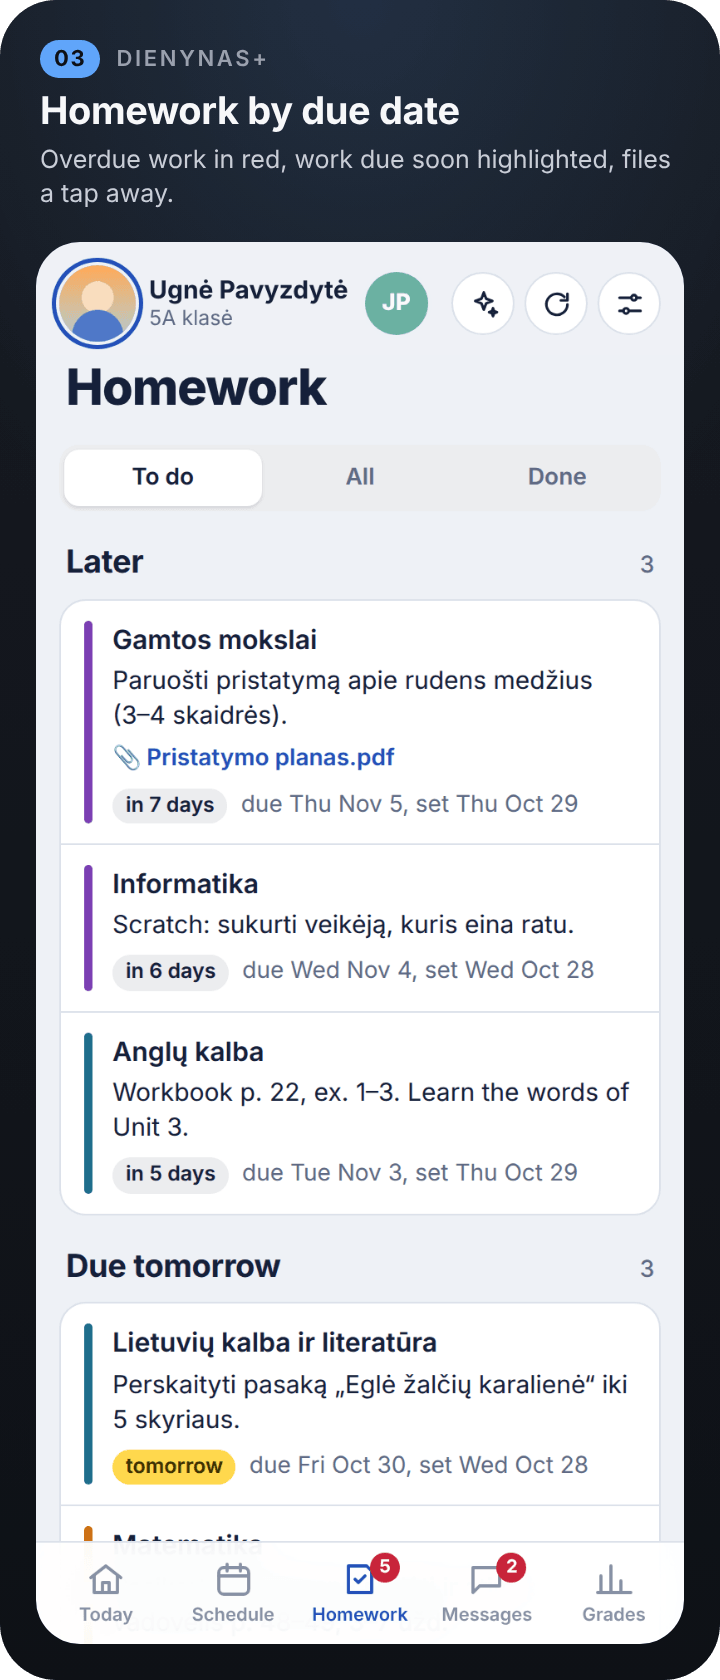
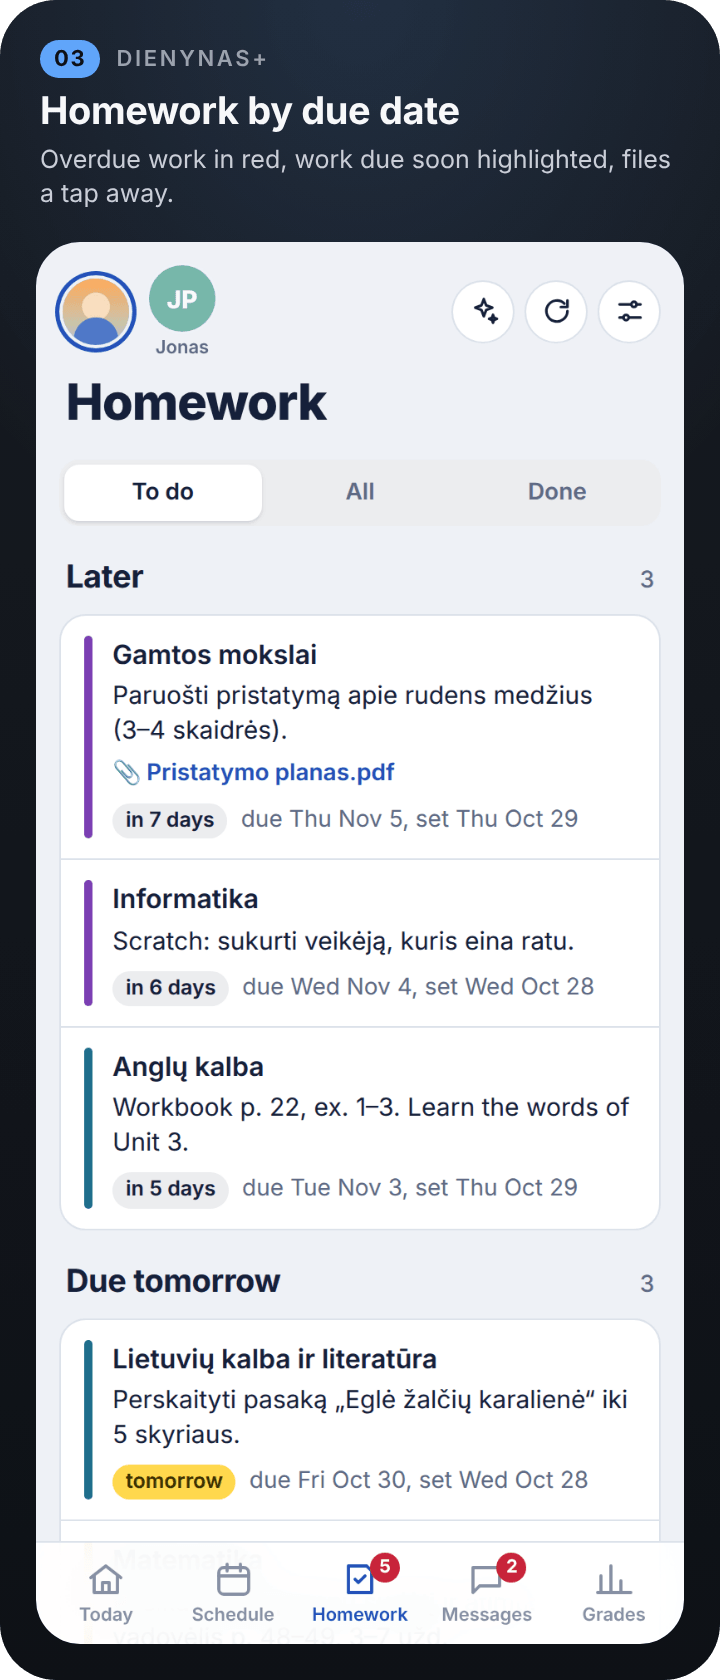
Release 1.13.0: room for every child
- Several children: the header shows only round photos in a fixed order;
  without a photo, initials and a short first name; up to four fit beside
  the buttons, also at 375 px
- First launch with several children: a card on Today suggests adding a photo
  for each child (tap a child to pick one; Not now hides it for good)
- One child: unchanged (photo with full name and class)
- Fix: long names pushed the other children's photos off the header
- Screenshots: 08-children shows the add-photos card

diff --git a/Dienynas.js b/Dienynas.js
@@ -30,7 +30,7 @@ const SESSION_TTL_MIN = 25;
 
 
 // This build's version. When releasing, bump it and add a matching entry to releases.json.
-const VERSION = '1.12.1';
+const VERSION = '1.13.0';
 const APP_ID = 'dienynasplus';   // unique per app, never changes
 const REPO_RAW = 'https://raw.githubusercontent.com/gadominas/Tamo-/master/';
 const SCRIPT_FILE = 'Dienynas.js';   // the script's file name in the repository
@@ -154,6 +154,7 @@ const write = (n, v) => {
 const settings = {
   lang: "en", checkUpdates: true,   // offer new versions from GitHub (asks again 2 days after "Later")
   shareUsage: false, usageAsked: false,  // anonymous usage counts: off until the person agrees
+  photosAsked: false,   // several children: the "add a photo for each child" card was answered (Not now)
   theme: "auto", density: "comfortable", font: "sans", textSize: 1,
   gradeScales: {},   // top grade per child: { roleKey: 10 }
   cfg: {},
@@ -1332,6 +1333,22 @@ header.top{position:sticky;top:0;z-index:6;display:flex;align-items:center;justi
 .kn b{font-family:var(--display);font-size:calc(15px * var(--ts));font-weight:700;white-space:nowrap;overflow:hidden;text-overflow:ellipsis;max-width:42vw}
 .kn small{font-size:calc(12.5px * var(--ts));color:var(--muted);white-space:nowrap;overflow:hidden;text-overflow:ellipsis;max-width:42vw;max-height:3em;transition:max-height .2s ease,opacity .2s ease}
 .kid:not(.on) .kn{display:none}
+/* several children: photos only, three or four fit beside the buttons */
+.kids.multi{gap:8px}
+.kids.multi .kid{flex-direction:column;gap:3px;width:44px;align-items:center}
+.kids.multi .av{width:40px;height:40px;font-size:15px}
+.kids.multi .kid:not(.on) .av{width:40px;height:40px;font-size:15px;opacity:.55}
+.kl{font-size:calc(11px * var(--ts));font-weight:600;color:var(--muted);max-width:50px;white-space:nowrap;overflow:hidden;text-overflow:ellipsis;line-height:1.1;transition:opacity .2s ease}
+.kid.on .kl{color:var(--ink)}
+.compact .kl{display:none}
+.compact .kids.multi .av,.compact .kids.multi .kid:not(.on) .av{width:30px;height:30px;font-size:12px}
+.photoask{padding:14px}
+.photoask .title{font-weight:700}
+.pa-row{display:flex;gap:14px;margin:12px 0 10px;overflow-x:auto;padding:4px 2px}
+.pa-kid{display:flex;flex-direction:column;align-items:center;gap:4px;min-width:64px}
+.pa-kid .av{width:54px;height:54px;font-size:19px}
+.pa-kid b{font-size:calc(13px * var(--ts))}
+.pa-kid small{font-size:calc(12px * var(--ts));color:var(--blue);font-weight:600}
 .compact .av{width:30px;height:30px;font-size:12px}
 .compact .kid:not(.on) .av{width:26px;height:26px;font-size:11px}
 .compact .kn small{max-height:0;opacity:0}
@@ -1695,6 +1712,7 @@ function pageMain() {
       gathering: "Pulling everything from TAMO…", gatherFailed: (e) => `Couldn't pull the data: ${e}`,
       stages: { schedule: "Lessons", homework: "Homework", grades: "Grades and attendance", calendar: "School calendar", messages: "Messages" },
       scaleLbl: (m) => `Scale 1–${m}`,
+      photos: { title: "Add a photo for each child", text: "With several children, photos keep the top of the screen tidy and show whose diary is open. They stay on this phone.", add: "Add photo", done: "✓ Added", later: "Not now" },
       news: { title: "New since last check", popup: (n) => `${n} new in TAMO`, clear: "Mark all as seen", ok: "OK", hw: "Homework", grades: "Grade", msgs: "Message", notes: "Teacher note", group: "class group", tapHint: "Tap an item to open it." },
       upd: {
         tag: (v) => `New version ${v}`, title: "An update is ready", more: (n) => ` (and ${n} more update${n > 1 ? "s" : ""})`,
@@ -1741,6 +1759,7 @@ function pageMain() {
       gathering: "Renkami visi TAMO duomenys…", gatherFailed: (e) => `Nepavyko surinkti duomenų: ${e}`,
       stages: { schedule: "Pamokos", homework: "Namų darbai", grades: "Pažymiai ir lankomumas", calendar: "Mokyklos kalendorius", messages: "Žinutės" },
       scaleLbl: (m) => `Skalė 1–${m}`,
+      photos: { title: "Pridėkite kiekvieno vaiko nuotrauką", text: "Kai vaikų keli, nuotraukos viršuje užima mažai vietos ir parodo, kieno dienynas atidarytas. Jos lieka tik šiame telefone.", add: "Pridėti", done: "✓ Pridėta", later: "Ne dabar" },
       news: { title: "Nauja nuo paskutinio patikrinimo", popup: (n) => `TAMO naujienos: ${n}`, clear: "Pažymėti kaip peržiūrėtas", ok: "Gerai", hw: "Namų darbai", grades: "Pažymys", msgs: "Žinutė", notes: "Mokytojo įrašas", group: "klasės grupė", tapHint: "Paspauskite, kad atidarytumėte." },
       upd: {
         tag: (v) => `Nauja versija ${v}`, title: "Atnaujinimas paruoštas", more: (n) => ` (ir dar atnaujinimų: ${n})`,
@@ -1922,6 +1941,7 @@ function pageMain() {
     const parts = [];
     const ev = eventsOn(D.today);
     if (ev.length) parts.push(`<div class="banner info">${ev.map((e) => h(e.title)).join("<br>")}</div>`);
+    parts.push(photoCard());
     parts.push(`<section>${nowCard}</section>`);
     if ((D.news || []).length) parts.push(section(T.news.title, newsPanel(D.news), `<button id="newsclear" style="color:var(--blue);font-weight:600">${h(T.news.clear)}</button>`));
     if (lessons.length) parts.push(section(T.lessonsToday, panel(lessons.map((l) => lessonRow(l, D.today, { compact: true })), ""), h(T.lessonsN(lessons.length))));
@@ -2545,6 +2565,25 @@ function pageMain() {
     if (S.tab === 5) setTimeout(() => window.scrollTo(0, document.body.scrollHeight), 30);
   }
 
+  // ── children: names and the first-launch "add a photo for each child" card ──
+  const initials = (n) => String(n || "?").trim().split(/\s+/).slice(0, 2).map((w) => w[0]).join("").toUpperCase();
+  const firstName = (n) => String(n || "").trim().split(/[\s-]+/)[0] || "?";
+  function photoCard() {
+    const kids = D.children || [];
+    if (kids.length < 2 || D.photosAsked || kids.every((k) => k.avatar)) return "";
+    const P = T.photos;
+    return `<section><div class="panel photoask">
+      <div class="title">${h(P.title)}</div>
+      <div class="meta">${h(P.text)}</div>
+      <div class="pa-row">${kids
+        .map((k) => `<button class="pa-kid" data-photo="${h(k.key)}" aria-label="${h(k.title)}">
+          <span class="av" style="${k.avatar ? `background-image:url('${k.avatar}')` : `background:${color(k.title)}`}">${k.avatar ? "" : h(initials(k.title))}</span>
+          <b>${h(firstName(k.title))}</b><small>${h(k.avatar ? P.done : P.add)}</small></button>`)
+        .join("")}</div>
+      <button class="lnk" id="photoslater">${h(P.later)}</button>
+    </div></section>`;
+  }
+
   // ── news: everything a check announced stays here until marked as seen ──
   const NEWS_ICON = { hw: "📝", grades: "⭐", msgs: "✉", notes: "🗒" };
   function newsRow(i, idx) {
@@ -2660,13 +2699,17 @@ function pageMain() {
   function render() {
     const unread = (D.messages || []).filter((m) => m.unread && m.date >= addDays(D.today, -6)).length;
     const hwBadge = (D.homework || []).filter((i) => !i.done && i.due && i.due >= addDays(D.today, -7) && i.due <= addDays(D.today, 1)).length;
-    const kids = (D.children && D.children.length ? D.children : [{ key: D.child.key, title: D.child.title, subtitle: D.child.subtitle, active: true }]).slice().sort((a, b) => (b.active ? 1 : 0) - (a.active ? 1 : 0));
-    const initials = (n) => String(n || "?").trim().split(/\s+/).slice(0, 2).map((w) => w[0]).join("").toUpperCase();
-    const kidBtn = (k) => `<button class="kid ${k.active ? "on" : ""}" data-kid="${h(k.key)}" aria-label="${h(k.title)}">
-        <span class="av" style="${k.avatar ? `background-image:url('${k.avatar}')` : `background:${color(k.title)}`}">${k.avatar ? "" : h(initials(k.title))}</span>
-        <span class="kn"><b>${h(k.active && D.child.title ? D.child.title : k.title)}</b><small>${h(k.active ? D.child.subtitle || k.subtitle : k.subtitle)}</small></span></button>`;
+    const kids = D.children && D.children.length ? D.children : [{ key: D.child.key, title: D.child.title, subtitle: D.child.subtitle, active: true }];
+    const multi = kids.length > 1;
+    const kidBtn = (k) => {
+      const avatar = `<span class="av" style="${k.avatar ? `background-image:url('${k.avatar}')` : `background:${color(k.title)}`}">${k.avatar ? "" : h(initials(k.title))}</span>`;
+      // several children: just the photos (same order every time); without a photo, initials and a short first name
+      if (multi) return `<button class="kid ${k.active ? "on" : ""}" data-kid="${h(k.key)}" aria-label="${h(k.title)}">${avatar}${k.avatar ? "" : `<span class="kl">${h(firstName(k.title))}</span>`}</button>`;
+      return `<button class="kid on" data-kid="${h(k.key)}" aria-label="${h(k.title)}">${avatar}
+        <span class="kn"><b>${h(D.child.title || k.title)}</b><small>${h(D.child.subtitle || k.subtitle)}</small></span></button>`;
+    };
     const head = `<header class="top">
-      <div class="kids">${kids.map(kidBtn).join("")}</div>
+      <div class="kids ${multi ? "multi" : ""}">${kids.map(kidBtn).join("")}</div>
       <div class="tools">
         ${D.hasAiKey ? `<button class="icon-btn ${S.tab === 5 ? "on" : ""}" data-tab="5" aria-label="ask"><svg viewBox="0 0 24 24"><path d="M12 3l1.8 4.7L18.5 9.5l-4.7 1.8L12 16l-1.8-4.7L5.5 9.5l4.7-1.8z"/><path d="M19 15l.8 2.2L22 18l-2.2.8L19 21l-.8-2.2L16 18l2.2-.8z"/></svg></button>` : ""}
         <button class="icon-btn" id="refresh" aria-label="refresh"><svg viewBox="0 0 24 24"><path d="M20 12a8 8 0 1 1-2.3-5.6"/><path d="M20 4v5h-5"/></svg></button>
@@ -2747,6 +2790,12 @@ function pageMain() {
         if (!S.info && !S.preparing && !S.prepError) prepare(false);
       }
       return;
+    }
+    if (el.dataset.photo) return call("avatar", { key: el.dataset.photo }).catch(() => {});
+    if (el.id === "photoslater") {
+      D.photosAsked = true;
+      render();
+      return call("photos-later").catch(() => {});
     }
     if (el.dataset.kid) {
       const k = (D.children || []).find((x) => x.key === el.dataset.kid);
@@ -3812,6 +3861,7 @@ class App {
       ...extra,
       lang: LANG(), version: VERSION, look: lookState(), logo: LOGO_PARTS,
       usageAsk: usageAvailable() && !settings.usageAsked && !settings.shareUsage,
+      photosAsked: !!settings.photosAsked,
     };
   }
 
@@ -3996,6 +4046,10 @@ class App {
         case "avatar":
           await this.reply(q.id, true, {});
           return this.avatarMenu(String(params.key || ""));
+        case "photos-later":   // "Not now" on the add-photos card: don't suggest it again
+          settings.photosAsked = true;
+          saveSettings();
+          return this.reply(q.id, true, {});
         case "newsclear":
           clearNewsList((this.data && this.data.child.key) || currentRoleKey());
           return this.reply(q.id, true, {});

diff --git a/docs/site/scenario.js b/docs/site/scenario.js
@@ -284,7 +284,7 @@ module.exports = {
   settle: 3900,   // the launch screen (2.9 s), then the page with fresh TAMO data
   fixtures: (shot) => ({
     files: Object.assign({
-      [DOCS + '/DienynasPlus/settings.json']: { lang: shot.lt ? 'lt' : 'en', checkUpdates: true, theme: 'auto', density: 'comfortable', font: 'sans', textSize: 1, gradeScales: {}, cfg: {}, usageAsked: true },
+      [DOCS + '/DienynasPlus/settings.json']: { lang: shot.lt ? 'lt' : 'en', checkUpdates: true, theme: 'auto', density: 'comfortable', font: 'sans', textSize: 1, gradeScales: {}, cfg: {}, usageAsked: true, photosAsked: !shot.photoCard },
       [LOCAL + '/dienynas-plus-ai-settings.json']: { aiProvider: 'anthropic', ai: true, models: { anthropic: { at: NOW - 3 * 864e5, list: [
         { id: 'claude-opus-5-5', name: 'Claude Opus 5.5' }, { id: 'claude-sonnet-5-5', name: 'Claude Sonnet 5.5' }, { id: 'claude-haiku-5-5', name: 'Claude Haiku 5.5' }] } } },
       [LOCAL + '/dienynas-plus-usage.json']: usageSeed(),
@@ -346,12 +346,8 @@ module.exports = {
       run: async (h) => { await h.tap('[data-tab="4"]'); } },
     { id: '07-lithuanian', label: 'In Lithuanian too', caption: 'Switch between Lithuanian and English in Settings › General.', lt: true,
       run: async (h) => { await h.scrollTo('main section:nth-of-type(3)', 18); } },
-    { id: '08-children', label: 'Switch children in one tap', caption: 'Each child’s photo stays at the top and shrinks as you scroll; tap one to switch.',
-      run: async (h) => {
-        await h.tap('[data-tab="1"]');
-        await h.tap('.lesson.current');
-        await h.scrollTo(330);   // scrolled: the header and the children row shrink
-      } },
+    { id: '08-children', label: 'Switch children in one tap', caption: 'Each child’s photo sits at the top; the first time, add a photo for each.',
+      photoCard: true },   // Today with the add-photos card (Jonas has no photo yet)
     { id: '09-launch', label: 'Launch screen', caption: 'The calendar draws itself for a moment; a tap skips it.', settle: 800 },
     { id: '10-settings', label: 'Settings', caption: 'Six palettes or Auto, three layouts, text size and headline font.',
       run: async (h) => { await h.tap('#settings', { after: 900 }); } },

diff --git a/README.md b/README.md
@@ -37,7 +37,7 @@ A faster, cleaner way to follow your child's school day in the TAMO dienynas, th
 - **Schedule.** The week with lessons per day; tap a lesson for its teacher, topic, homework, attachments and subject average.
 - **Messages.** A bar chart of the last 7 days with the unread part in yellow, messages grouped by day, and each message in a sheet.
 - **Grades.** Subject averages for the last 30 days on your school's grade scale (1–10, 1–7 or any other), recent grades, formative assessments and attendance.
-- **Children at the top.** Each child's photo or initials sits in the header; tap one to switch. The header shrinks as you scroll.
+- **Children at the top.** With several children, the header shows just their round photos (initials and a short first name until a photo is added), so up to four fit; tap one to switch. The header shrinks as you scroll.
 - **🔔 Scheduled checks.** Run it from Shortcuts to be told about new homework, grades, messages and teacher notes; everything announced stays on Today until you mark it as seen.
 - **Lithuanian and English.** The interface, the widget and the alerts follow the language set in Settings.
 - **Home Screen widget.** The lesson now or next, homework due tomorrow, today's messages and the rest of the day, without grades or message text.
@@ -53,7 +53,7 @@ A faster, cleaner way to follow your child's school day in the TAMO dienynas, th
 </p>
 <p align="center">
   <img src="docs/screenshots/07-lithuanian.png" width="31%" alt="Today screen in Lithuanian: what to prepare for tomorrow, with a maths test flagged and the homework due">
-  <img src="docs/screenshots/08-children.png" width="31%" alt="Schedule scrolled down: the header has shrunk to the selected child's photo and name, with a second child's initials beside it">
+  <img src="docs/screenshots/08-children.png" width="31%" alt="Today with two children at the top as round photos, and a card suggesting a photo for the child who has none yet">
   <img src="docs/screenshots/09-launch.png" width="31%" alt="Launch screen: the Dienynas+ calendar logo drawing itself above the name">
 </p>
 <p align="center">
@@ -185,7 +185,7 @@ Checks cover the child currently selected in the app. Network hiccups in the bac
 
 ### Several children, offline, and the rest
 
-- **Several children on one account:** every child sits at the top of the screen as a round photo, or their initials. Tap another child to switch straight away, on the same sign-in: their last data appears at once while fresh data loads. Tap the selected child to **choose a photo** from your album (it's cropped to a circle and kept only on the phone), change it or remove it. The header stays on top and shrinks as you scroll. Grade scale, ✨ Ask conversations and new-item alerts are kept per child. **Settings › Account › Switch child** works too.
+- **Several children on one account:** every child sits at the top of the screen as a round photo; until a photo is added, their initials with a short first name underneath. Up to four children fit beside the buttons, always in the same order. Tap another child to switch straight away, on the same sign-in: their last data appears at once while fresh data loads. The first time, a card on Today suggests **adding a photo for each child**; tap a child there, or tap the selected child at the top, to **choose a photo** from your album (it's cropped to a circle and kept only on the phone), change it or remove it. **Not now** hides the card for good. The header stays on top and shrinks as you scroll. Grade scale, ✨ Ask conversations and new-item alerts are kept per child. **Settings › Account › Switch child** works too.
 - **Works offline.** The last loaded data is shown straight away and refreshed in the background. If TAMO can't be reached, the saved data stays on screen with a note saying when it's from.
 - **Lithuanian and English** interface, switchable in **Settings › General**.
 - **Launch screen.** Dienynas+ opens on its logo for 2.4 seconds: the calendar draws itself, then "Messages. Homework. Calm." ("Žinutės. Užduotys. Ramybė." in Lithuanian). Tap to skip; with Reduce Motion it appears without movement. It is the shared [launch-screen](https://github.com/gadominas/app-blueprints/blob/main/blueprints/launch-screen.md) blueprint, so all the apps start the same way.

diff --git a/CHANGELOG.md b/CHANGELOG.md
@@ -2,6 +2,22 @@
 
 All notable changes to Dienynas+. Generated from `releases.json`; edit that file, not this one.
 
+## 1.13.0 (2026-11-01): Room for every child
+
+- 👨👩👧👦 **Up to four children**: With several children the top shows just their photos, so up to four fit.
+- 🖼 **Photos on first launch**: A card on Today helps you add a photo for each child the first time.
+- 🔤 **Short names until then**: A child without a photo shows initials and a short first name.
+
+**Changes**
+
+- Several children: the header shows only round photos, in a fixed order; children without a photo show initials and their first name; up to four fit beside the buttons at 375 px
+- Add a photo for each child: a card on Today the first time there are several children and some lack a photo; tap a child to pick one; Not now hides it for good
+- One child: the header still shows the photo with the full name and class
+
+**Fixes**
+
+- Long names pushed the other children's photos off the header or squeezed them
+
 ## 1.12.1 (2026-11-01): Rounder photos
 
 - ⭕ **Whole photo ring**: The selected child's photo and its ring now show as a full circle.
